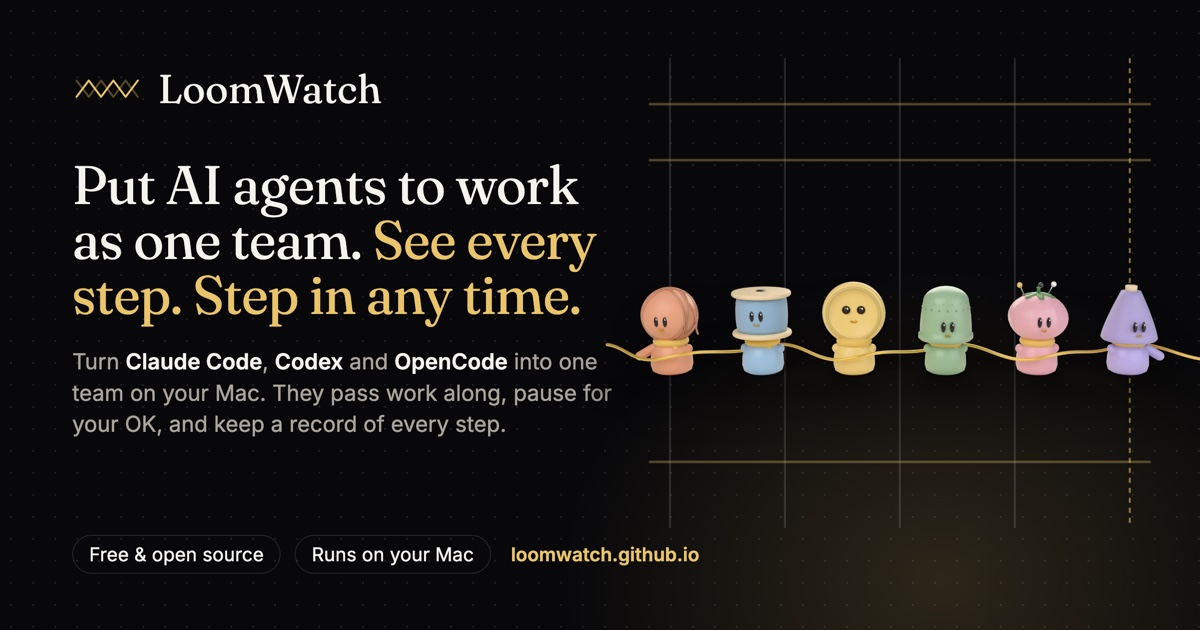
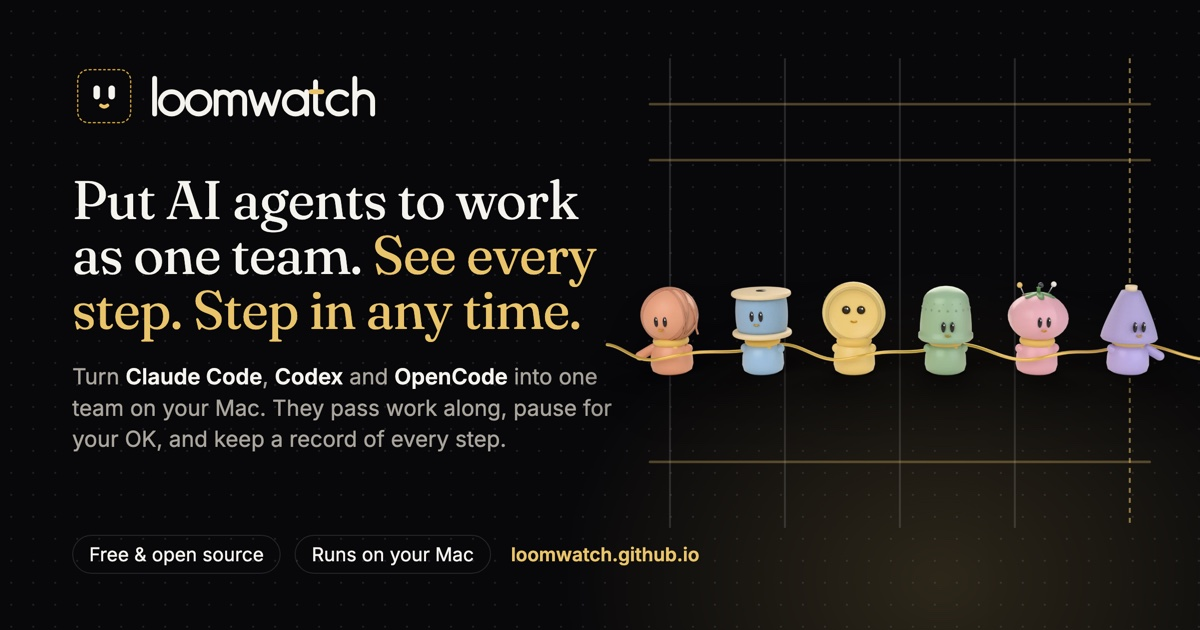
Publish the landing page from 32ff8d6

Changed region(s): [[0.0617, 0.2413, 0.5242, 0.7238], [0.0617, 0.1206, 0.3392, 0.181]]

diff --git a/index.html b/index.html
@@ -11,14 +11,14 @@
   <meta property="og:description" content="Turn the AI apps you already use, like Claude Code, Codex and OpenCode, into one team on your Mac. See every step, and step in any time. Free and open source.">
   <meta property="og:type" content="website">
   <meta property="og:url" content="https://loomwatch.github.io/">
-  <meta property="og:image" content="https://loomwatch.github.io/social-card.jpg?v=5">
+  <meta property="og:image" content="https://loomwatch.github.io/social-card.jpg?v=6">
   <meta property="og:image:width" content="1200">
   <meta property="og:image:height" content="630">
   <meta property="og:image:alt" content="LoomWatch: put AI agents to work as one team. Six friendly figures, a yarn ball, a spool, a button, a thimble, a pincushion and a thread cone, joined by one gold thread.">
   <meta name="twitter:card" content="summary_large_image">
   <meta name="twitter:title" content="LoomWatch — Put AI agents to work as one team">
   <meta name="twitter:description" content="Turn the AI apps you already use, like Claude Code, Codex and OpenCode, into one team on your Mac. See every step, and step in any time. Free and open source.">
-  <meta name="twitter:image" content="https://loomwatch.github.io/social-card.jpg?v=5">
+  <meta name="twitter:image" content="https://loomwatch.github.io/social-card.jpg?v=6">
   <meta name="twitter:image:alt" content="LoomWatch: put AI agents to work as one team. Six friendly figures, a yarn ball, a spool, a button, a thimble, a pincushion and a thread cone, joined by one gold thread.">
   <link rel="canonical" href="https://loomwatch.github.io/">
   <link rel="icon" href="favicon.ico" sizes="32x32">
@@ -39,12 +39,14 @@
 <a class="skip" href="#main">Skip to content</a>
 
 <svg width="0" height="0" style="position:absolute" aria-hidden="true">
-  <symbol id="mark" viewBox="0 0 102 44"><g fill="none" stroke="currentColor" stroke-width="5" stroke-linecap="round" stroke-linejoin="round"><path d="M6 10 24 34 42 10 60 34 78 10 96 34" opacity=".36"/><path d="M6 34 24 10 42 34 60 10 78 34 96 10"/></g></symbol>
+  <!-- docs/assets/brand/mark-small.svg and the wordmark; ui/src/site/brand.test.ts keeps them the same. -->
+  <symbol id="mark" viewBox="0 0 512 512"><rect width="512" height="512" rx="112" fill="#08080A"/><path d="M256 40H384A88 88 0 0 1 472 128V384A88 88 0 0 1 384 472H128A88 88 0 0 1 40 384V128A88 88 0 0 1 128 40Z" fill="none" stroke="#D8A93C" stroke-width="26" stroke-linecap="round" stroke-dasharray="49.28 49.28" stroke-dashoffset="24.64"/><rect x="152" y="146" width="70" height="150" rx="35" fill="#F5F3EE"/><rect x="290" y="146" width="70" height="150" rx="35" fill="#F5F3EE"/><path d="M222 354Q256 382 290 354" fill="none" stroke="#E9C46A" stroke-width="40" stroke-linecap="round"/></symbol>
+  <symbol id="wordmark" viewBox="-6 14 501 92"><g fill="none" stroke-width="12" stroke-linecap="round" stroke-linejoin="round"><path stroke="currentColor" d="M0 20V100M13 75a25 25 0 1 0 50 0a25 25 0 1 0-50 0M74 75a25 25 0 1 0 50 0a25 25 0 1 0-50 0M138 50V100M138 67a16 16 0 0 1 32 0V100M170 67a16 16 0 0 1 32 0V100M215 50L231 100L247 56L263 100L279 50M291 75a25 25 0 1 0 50 0a25 25 0 1 0-50 0M341 50V100M361 28V86q0 14 14 14M430.73 56.42A25 25 0 1 0 430.73 93.58M449 20V100M449 70a20 20 0 0 1 40 0V100"/><path style="stroke: var(--accent)" d="M351 50H375"/></g></symbol>
 </svg>
 
 <header class="top">
   <div class="top-row">
-    <a class="brand" href="#top" aria-label="LoomWatch, back to top"><svg aria-hidden="true"><use href="#mark"/></svg>LoomWatch</a>
+    <a class="brand" href="#top" aria-label="LoomWatch, back to top"><svg class="brand-mark" aria-hidden="true"><use href="#mark"/></svg><svg class="brand-name" aria-hidden="true"><use href="#wordmark"/></svg></a>
     <nav class="top-nav" aria-label="Sections">
       <a href="#act-agents">Agents</a>
       <a href="#act-workflow">Workflow</a>
@@ -421,7 +423,7 @@ Keep this window open while you use LoomWatch. Press Ctrl-C to stop it.</span></
 
 <footer class="foot">
   <div class="wrap foot-row">
-    <a class="brand" href="#top"><svg aria-hidden="true"><use href="#mark"/></svg>LoomWatch</a>
+    <a class="brand" href="#top" aria-label="LoomWatch, back to top"><svg class="brand-mark" aria-hidden="true"><use href="#mark"/></svg><svg class="brand-name" aria-hidden="true"><use href="#wordmark"/></svg></a>
     <nav aria-label="Project">
       <a href="https://github.com/tnghia903/loomwatch">GitHub</a>
       <a href="https://github.com/tnghia903/loomwatch#run-your-own-agents">Run your own agents</a>

diff --git a/styles.css b/styles.css
@@ -153,8 +153,9 @@ em { font-style: italic; }
 
 .top { position: fixed; inset: 0 0 auto 0; z-index: 30; background: var(--glass); backdrop-filter: blur(24px) saturate(150%); -webkit-backdrop-filter: blur(24px) saturate(150%); border-bottom: 1px solid var(--hairline); }
 .top-row { max-width: 1240px; margin: 0 auto; padding: 0 var(--gutter); height: 58px; display: flex; align-items: center; gap: 28px; }
-.brand { display: inline-flex; align-items: center; gap: 10px; font: 600 16px/1 var(--sans); letter-spacing: -.01em; text-decoration: none; color: var(--ink); }
-.brand svg { width: 30px; height: 13px; color: var(--accent); }
+.brand { display: inline-flex; align-items: center; gap: 9px; text-decoration: none; color: var(--ink); }
+.brand .brand-mark { width: 26px; height: 26px; flex: none; }
+.brand .brand-name { width: 98px; height: 18px; flex: none; }
 .top-nav { display: flex; gap: 22px; margin-left: 8px; }
 .top-nav a { color: var(--ink-2); text-decoration: none; font: 500 13px/1 var(--sans); }
 .top-nav a:hover { color: var(--ink); }
@@ -226,7 +227,7 @@ em { font-style: italic; }
 /* The window every panel shares, so it reads as one app moving forward. */
 .win { background: var(--panel-solid); border: 1px solid var(--hairline-2); border-radius: 14px; box-shadow: var(--shadow); overflow: hidden; }
 .win-bar { display: flex; align-items: center; gap: 10px; height: 46px; padding: 0 16px; border-bottom: 1px solid var(--hairline); }
-.win-bar > svg { width: 24px; height: 11px; color: var(--accent); flex: none; }
+.win-bar > svg { width: 18px; height: 18px; flex: none; }
 .win-title { display: flex; align-items: baseline; gap: 10px; min-width: 0; font-size: 13.5px; }
 .win-title b { font-weight: 600; white-space: nowrap; }
 .win-title .mono { color: var(--ink-3); font-size: 11.5px; overflow: hidden; text-overflow: ellipsis; white-space: nowrap; }
